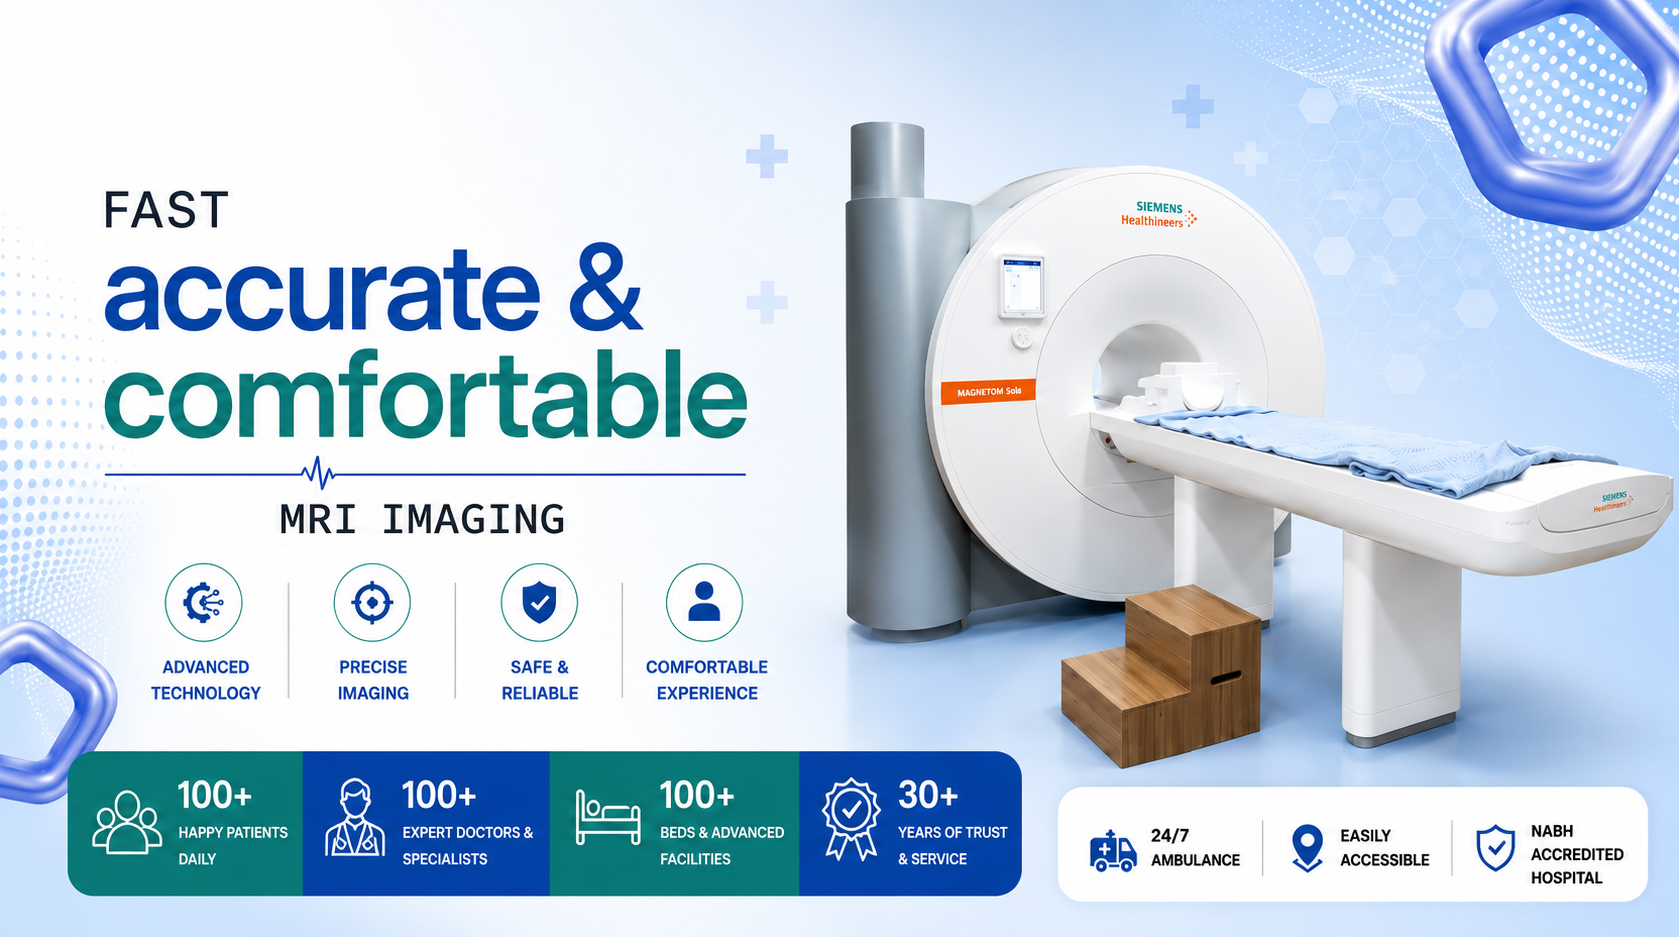
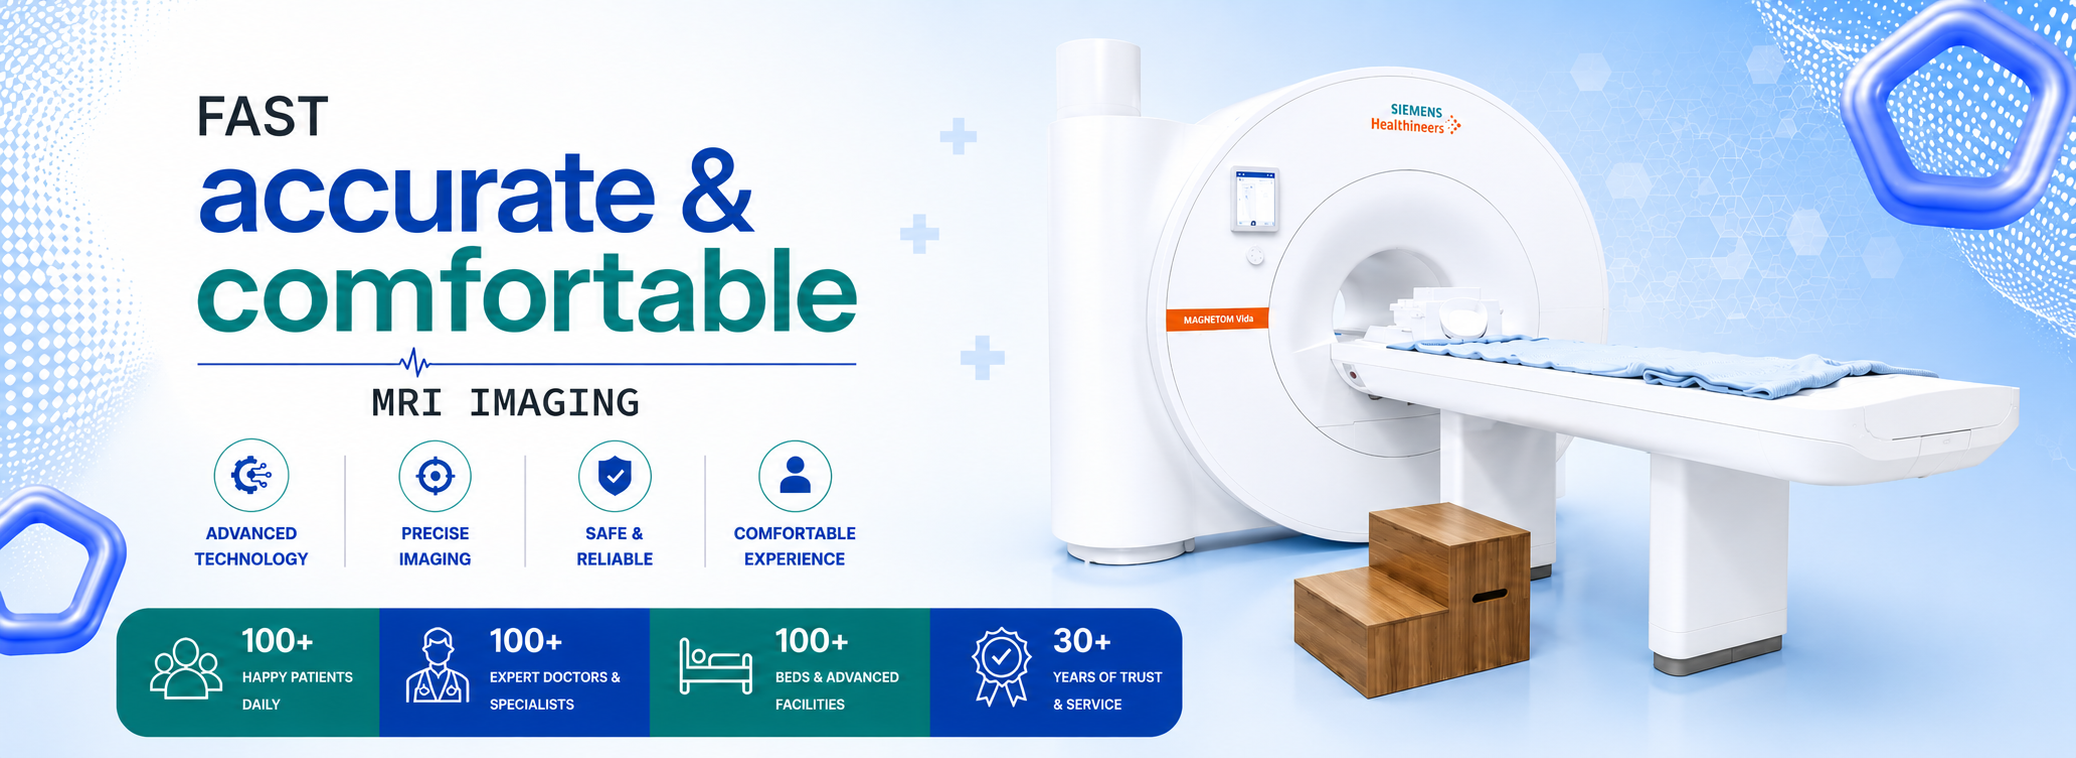
Initial commit

diff --git a/src/components/HeaderGroup.js b/src/components/HeaderGroup.js
@@ -141,56 +141,67 @@ export default function HeaderGroup() {
 ${scrolled ? "max-h-0 opacity-0 py-0" : "max-h-[80px] opacity-100 py-3"}`}>
 
     <div className="max-w-[1400px] mx-auto px-4 lg:px-6">
-        <div className="flex items-center justify-between gap-6">
+    <div
+    className="flex items-center gap-6 lg:gap-8"
+    style={{ marginLeft: "48px" }}
+>
+        {/* Contact */}
+        <a href="tel:[phone redacted]" className="group flex items-center gap-3 flex-shrink-0">
+            <span className="flex h-9 w-9 items-center justify-center rounded-full bg-rose-50 text-rose-600 group-hover:bg-rose-600 group-hover:text-white transition-all">
+                <FaPhoneAlt className="text-xs" />
+            </span>
 
-            <div className="flex items-center gap-6 lg:gap-8">
-
-                <a href="tel:[phone redacted]" className="group flex items-center gap-3">
-                    <span className="flex h-9 w-9 flex-shrink-0 items-center justify-center rounded-full bg-rose-50 text-rose-600 transition-colors duration-300 group-hover:bg-rose-600 group-hover:text-white">
-                        <FaPhoneAlt className="text-xs" />
-                    </span>
-                    <span className="flex flex-col leading-tight">
-                        <span className="text-sm font-semibold text-ink">
-                            [phone redacted] <span className="text-slate-300">/</span> 4327778
-                        </span>
-                        <span className="text-xs text-slate-500">
-                            Emergency <b className="font-bold text-rose-600">[phone redacted]</b>
-                        </span>
-                    </span>
-                </a>
-
-                <span className="hidden h-9 w-px bg-slate-200 lg:block" aria-hidden="true" />
-
-                <div className="hidden items-center gap-3 lg:flex">
-                    <span className="flex h-9 w-9 flex-shrink-0 items-center justify-center rounded-full bg-teal-50 text-teal-700">
-                        <FaMapMarkerAlt className="text-xs" />
-                    </span>
-                    <span className="max-w-[260px] text-sm leading-tight text-slate-600">
-                        522/3 Hindusthan Hospital Road, Avinashi Road, Coimbatore
+            <div className="leading-tight">
+                <div className="text-sm font-semibold">
+                    [phone redacted] / 4327778
+                </div>
+                <div className="text-xs text-slate-500">
+                    Emergency
+                    <span className="font-bold text-rose-600">
+                        {" "}[phone redacted]
                     </span>
                 </div>
             </div>
+        </a>
 
-            <div className="flex flex-shrink-0 items-center gap-4">
-                <button
-                    onClick={() => navigate("/appointment")}
-                    className="group flex items-center gap-2 whitespace-nowrap rounded-full bg-gradient-to-r from-rose-600 to-purple-600 px-5 py-2.5 text-xs font-bold text-white shadow-[0_8px_20px_-6px_rgba(225,29,72,0.55)] transition-all duration-300 hover:shadow-[0_10px_26px_-4px_rgba(225,29,72,0.6)] hover:-translate-y-0.5 lg:px-6 lg:text-sm"
-                >
-                    <FaCalendarCheck className="text-xs transition-transform duration-300 group-hover:scale-110" />
-                    BOOK AN APPOINTMENT
-                </button>
+        {/* Divider */}
+        <div className="h-10 w-px bg-slate-200" />
 
-                <span className="hidden h-9 w-px bg-slate-200 lg:block" aria-hidden="true" />
+        {/* Address */}
+        <div className="flex items-center gap-3 flex-shrink-0">
+            <span className="flex h-9 w-9 items-center justify-center rounded-full bg-teal-50 text-teal-700">
+                <FaMapMarkerAlt className="text-xs" />
+            </span>
 
-                <img
-                    src={certLogo}
-                    className="w-12 flex-shrink-0 object-contain opacity-90 transition-opacity duration-300 hover:opacity-100 lg:w-16"
-                    alt="NABH Certified"
-                />
-            </div>
-
+            <p className="text-sm text-slate-600 whitespace-nowrap">
+                522/3 Hindusthan Hospital Road, Avinashi Road, Coimbatore
+            </p>
         </div>
+
+        {/* Divider */}
+        <div className="h-10 w-px bg-slate-200" />
+
+        {/* Appointment */}
+        <button
+            onClick={() => navigate("/appointment")}
+            className="flex items-center gap-2 rounded-full bg-gradient-to-r from-rose-600 to-purple-600 px-5 py-2.5 text-sm font-semibold text-white shadow-lg hover:-translate-y-0.5 transition-all"
+        >
+            <FaCalendarCheck />
+            BOOK APPOINTMENT
+        </button>
+
+        {/* Divider */}
+        <div className="h-10 w-px bg-slate-200" />
+
+        {/* NABH */}
+        <img
+            src={certLogo}
+            alt="NABH"
+            className="w-14 object-contain"
+        />
+
     </div>
+</div>
 </div>
 
             {/* ---------- NAVBAR ---------- */}

diff --git a/src/toppages/home.js b/src/toppages/home.js
@@ -257,17 +257,17 @@ export default function Home() {
       {/* ════════ HERO ════════ */}
       {/* ════════ HERO ════════ */}
 {/* ════════ HERO ════════ */}
-<section className="relative w-full bg-gradient-to-b from-[#0A1B33] to-[#0F2440]">
-  <div className="group relative mx-auto aspect-video w-full overflow-hidden">
-
-    <Slider ref={heroSliderRef} {...heroSliderSettings} className="hero-slider h-full">
+{/* ════════ HERO ════════ */}
+<section className="relative w-full overflow-hidden">
+  <div className="relative w-full aspect-[4/5] sm:aspect-[16/9] lg:aspect-[1920/700]">
+    <Slider ref={heroSliderRef} {...heroSliderSettings} className="hero-slider absolute inset-0 h-full w-full">
       {heroImages.map((img, i) => (
-        <div key={i} className="h-full outline-none">
-          <div className="relative h-full w-full">
+        <div key={i} className="hero-slide-wrap outline-none">
+          <div className="relative h-full w-full overflow-hidden bg-gradient-to-br from-[#EAF2FB] to-[#F8FAFC]">
             <img
               src={img}
+              className="h-full w-full object-cover object-left sm:object-center"
               alt={`Hindusthan Hospital ${i + 1}`}
-              className="h-full w-full object-contain object-center"
               draggable={false}
             />
           </div>
@@ -275,11 +275,11 @@ export default function Home() {
       ))}
     </Slider>
 
-    {/* edge fade so the carousel blends into the page instead of a hard cut */}
-    <div className="pointer-events-none absolute inset-x-0 bottom-0 h-16 bg-gradient-to-t from-[#0A1B33]/70 to-transparent sm:h-24" />
+    {/* edge fade */}
+    <div className="pointer-events-none absolute inset-x-0 bottom-0 h-16 bg-gradient-to-t from-[#0A1B33]/40 to-transparent sm:h-24" />
 
-    {/* prev / next — grouped top-right so they never sit on banner content */}
-    <div className="absolute right-3 top-3 z-20 flex gap-2 sm:right-5 sm:top-5">
+    {/* prev / next */}
+    <div className="absolute right-3 top-3 z-30 flex gap-2 sm:right-5 sm:top-5">
       <button
         aria-label="Previous slide"
         onClick={() => heroSliderRef.current?.slickPrev()}
@@ -296,8 +296,8 @@ export default function Home() {
       </button>
     </div>
 
-    {/* custom dots */}
-    <div className="absolute bottom-3 left-1/2 z-20 flex -translate-x-1/2 gap-1.5 sm:bottom-5 sm:gap-2">
+    {/* dots */}
+    <div className="absolute bottom-3 left-1/2 z-30 flex -translate-x-1/2 gap-1.5 sm:bottom-5 sm:gap-2">
       {heroImages.map((_, i) => (
         <button
           key={i}